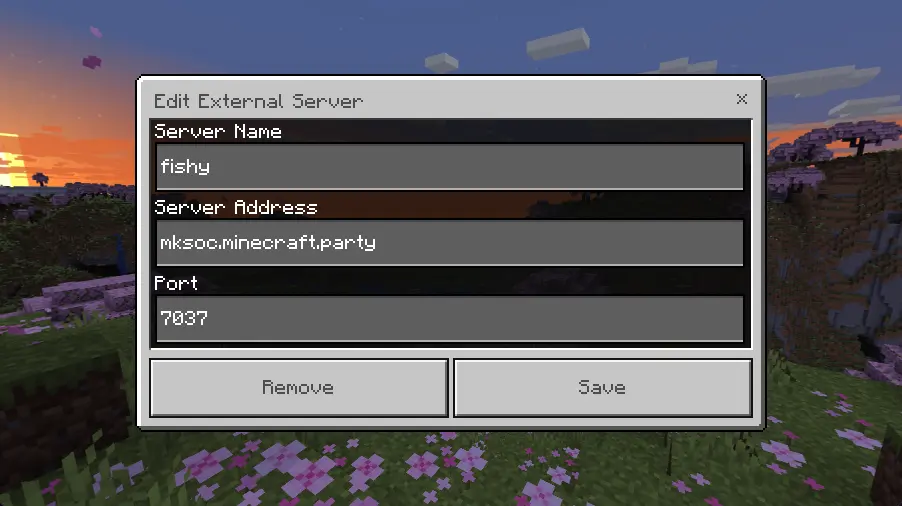
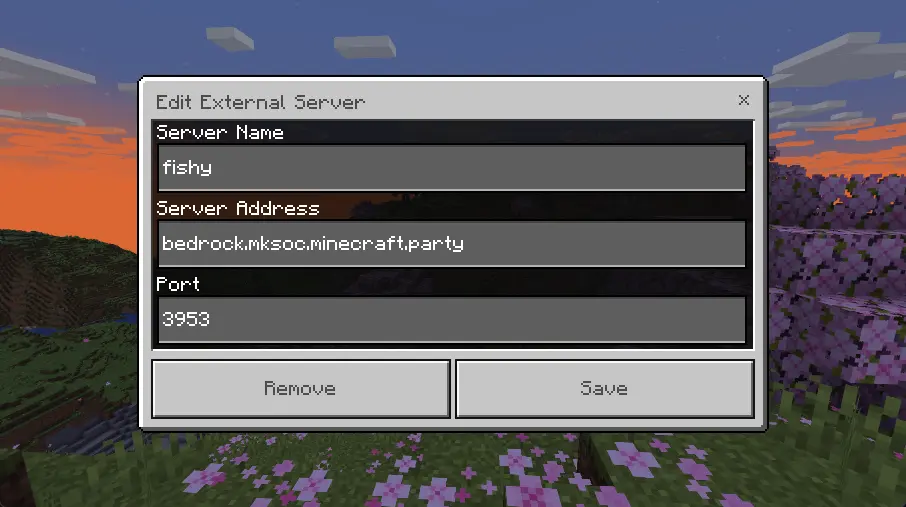
update mksocserver formatting and images

diff --git a/public/mksocserver/index.html b/public/mksocserver/index.html
@@ -30,25 +30,43 @@
         Simulation Distance: <code>16 Chunks</code><br/>
         <hr>
         Difficulty: <code>Hard</code>
-    </div>
-    <br/>
-    <span width="100%">
+    </div><br/>
+    <span>
         <a class="nolinkline" href="javaconnect.webp" target="_blank">
-            <img class="rounding" width="49.7%" src="javaconnect.webp" 
+            <img class="rounding" width="49.5%" src="javaconnect.webp" 
             alt="The Minecraft Java 'Edit Server' screen showing the 
             MKSoc Server IP Address" 
             title="The Minecraft Java 'Edit Server' screen showing the MKSoc Server IP Address">
         </a>
         <a class="nolinkline" href="bedrockconnect.webp" target="_blank">    
-            <img class="rounding" width="49.7%" src="bedrockconnect.webp" 
+            <img class="rounding" width="49.5%" src="bedrockconnect.webp" 
             alt="The Minecraft Bedrock 'Edit External Server' dialog box, 
             showing the MKSoc Server IP Address and the port '7037' in 
             the relevant input fields" 
             title="The Minecraft Bedrock 'Edit External Server' dialog box, showing the MKSoc Server IP Address and the port '7037' in the relevant input fields">
         </a>
-    </span>
+    </span><br/><hr>
 
-    <p><a class="anchor" href="#mods">#</a><b id="mods">Mods</b><br/>
+    <a class="anchor" href="#changelog">#</a><b id="changelog">Changelog</b>
+    <ul>
+        <li>
+            <b>2024-04-03</b> Fixed the nether roof for bedrock players,
+            render distance, simulation distance
+            and entity range have been increased
+        </li>
+        <li>
+            <b>2024-03-25</b> Bedrock players can now via bedrock.mksoc.minecraft.party (port: 3953)
+        </li>
+        <li>
+            <b>2024-03-24</b> A new domain for the server is in use - mksoc.minecraft.party
+        </li>
+        <li>
+            <b>2024-03-23</b> Server testing!
+        </li>
+    </ul>
+    <hr>
+    
+    <a class="anchor" href="#mods">#</a><b id="mods">Mods</b><br/>
     Below are the minecraft mods I use for a 1.20.4 
     <a href="https://fabricmc.net/">Fabric Minecraft instance</a>. 
     I use <a class="ref" target="_blank" 
@@ -65,7 +83,7 @@
     <b>Note</b>: On Macs with Intel processors, you need to install the x64 version
     of Java, on Macs with Arm 64 (M1) processors, you need to install the 
     Arm 64 (aarch64) version of Java.
-    <br/><br/>
+    <br/><hr>
         
     <a class="anchor" href="#modlist">#</a><b id="modlist">Mod List</b><br/>
     These mods mainly focus on optimisation (improving game FPS) and 
@@ -100,7 +118,7 @@
         <li><a class="ref" target="_blank" href="https://modrinth.com/mod/yacl">(YetAnotherConfigLab)</a></li>
     </ul>
     This mod list may be updated from time to time, please check back occasionally!
-    <br/><br/>
+    <br/><hr>
 
     <a class="anchor" href="#downloadingmods">#</a><b id="downloadingmods">Downloading Mods</b><br/>
     These mods can be downloaded from 
@@ -108,7 +126,7 @@
     href="https://modrinth.com/">https://modrinth.com/</a>. Or 
     alternatively by importing the mod pack into your favourite 
     launcher (like PrismLauncher).
-    <br/><br/>
+    <br/><hr>
 
     <a class="anchor" href="#modpackfile">#</a><b id="modpackfile">Modpack Template</b><br/>
     The modpack template can be downloaded here: 
@@ -130,13 +148,14 @@
     The instance is now ready to play!<br/>
     <b>Note:</b> You may get an error about 'Java version incompatibility',
     skipping the check normally solves this issue.
-    <br/><br/>
+    <br/><hr>
 
     <a class="anchor" href="#modconfigs">#</a><b id="modconfigs">Mod Configs</b><br/>
     My mods config folder: <a href="config.zip">config.zip</a>.<br/>
     This file has configuration files for the above mods. Use this 
     if you downloaded mods manually. Extract the contents of this 
-    folder to your Minecraft directory, within the 'config' folder.<p>
+    folder to your Minecraft directory, within the 'config' folder.
+    <br/><hr>
 
     <a class="anchor" href="#optionstxt">#</a><b id="optionstxt">options.txt</b><br/>
     Here is my <a download href="options.txt">options.txt</a> file.

diff --git a/public/kinoposts/pcsetup/index.html b/public/kinoposts/pcsetup/index.html
@@ -13,10 +13,10 @@
     min-height: 100%; min-width: 100%; position: fixed; top:0; left: 0; 
     backdrop-filter: blur(5px); z-index: -2;"></div>
     <video src="../../test/backgrounds/evadeadsea.mp4" autoplay loop muted playsinline id="videoBG"></video>
-    <p><a href="index.html">Back</a><br/>
+    <a href="index.html">Back</a><br/>
     <b>My PC Setup</b><br/>
-    What I install and change on a new installation on my PC and laptop.</p>   
-
+    What I install and change on a new installation on my PC and laptop.  
+    <br/><hr>
         
     <a class="anchor" href="#essential">#</a><b id="essential">Essential Programs</b><br/>
     Essential applications that should be on most computers.
@@ -58,7 +58,7 @@
 
     </ul>
     This list may be updated from time to time, please check back occasionally!
-    <br/><br/>
+    <br/><hr>
 
     <a class="anchor" href="#other">#</a><b id="other">Other Programs</b><br/>
     Programs that are more specialised, install if desired.
@@ -88,8 +88,8 @@
 
     Additionally, on new installs I use the <a href="https://christitus.com/windows-tool/">Chris Titus Optimiser</a> to clean some Windows stuff.<br/>
     It can be run in an administrative PowerShell window with this command:
-    <br/><br/>
-    <div class="codeBox" style="user-select: all;">
+    <br/>
+    <div class="codeBox" style="user-select: all; margin-top: 5px;">
         iwr -useb https://christitus.com/win | iex
     </div>
 </body>
